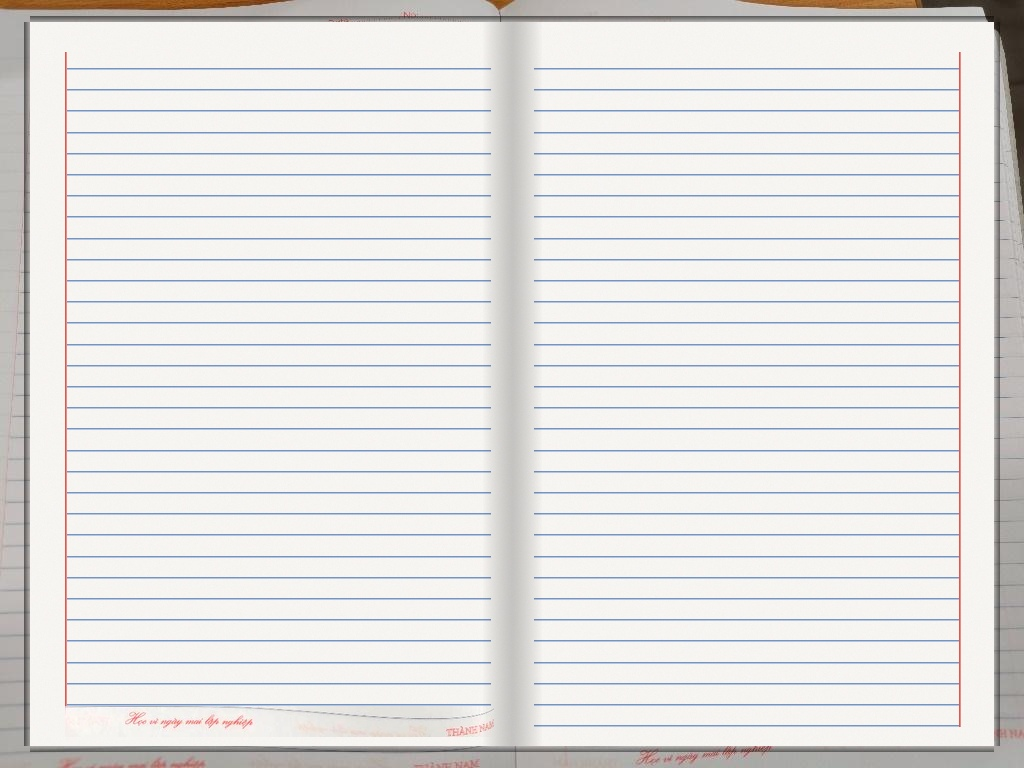
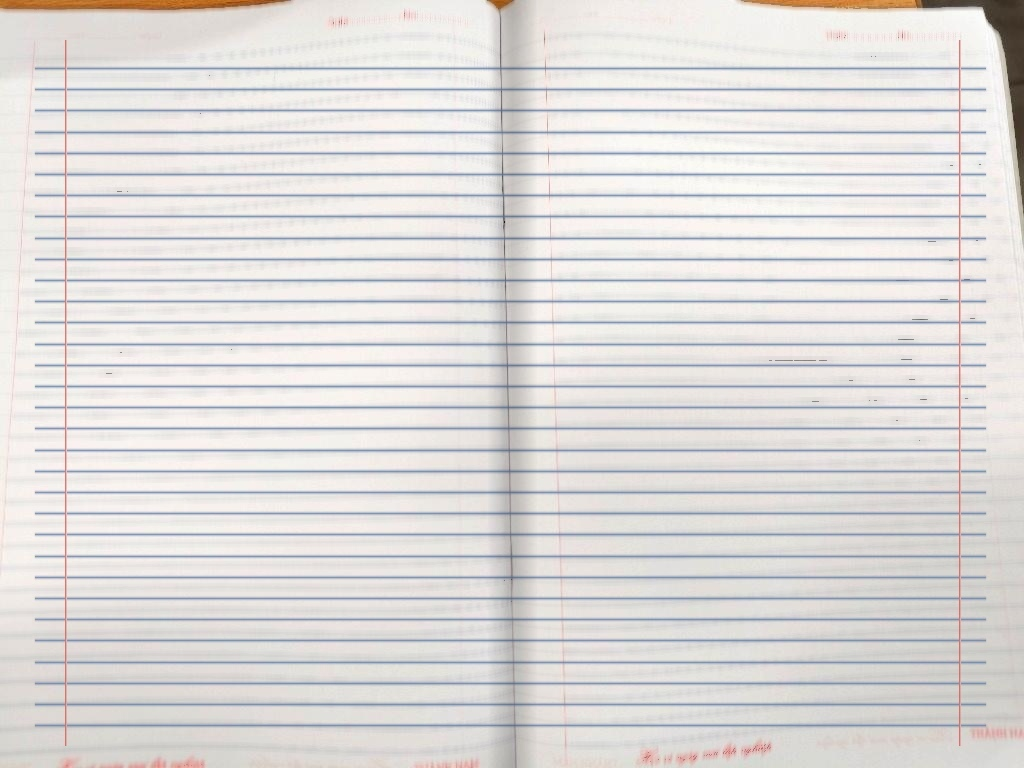
fix(notebooks): v5.9.1 authentic photographic paper, solid continuous ruled lines, grounded text, and auto-cache purge

diff --git a/index.html b/index.html
@@ -2768,7 +2768,7 @@
     // ========================================================
     // CACHE BUSTING & ASSET VERSIONING (GUARANTEES FRESH ASSETS)
     // ========================================================
-    const APP_VERSION = '5.9.0';
+    const APP_VERSION = '5.9.1';
     if (localStorage.getItem('cheptay_app_ver') !== APP_VERSION) {
       localStorage.setItem('cheptay_app_ver', APP_VERSION);
       if ('caches' in window) {

diff --git a/sw.js b/sw.js
@@ -1,5 +1,5 @@
 // Service Worker for Chép Tay Tiếng Trung PWA
-const CACHE_NAME = 'cheptay-v5.9.0-pristine-release';
+const CACHE_NAME = 'cheptay-v5.9.1-authentic-natural-release';
 const ASSETS_TO_CACHE = [
   './',
   './index.html',
